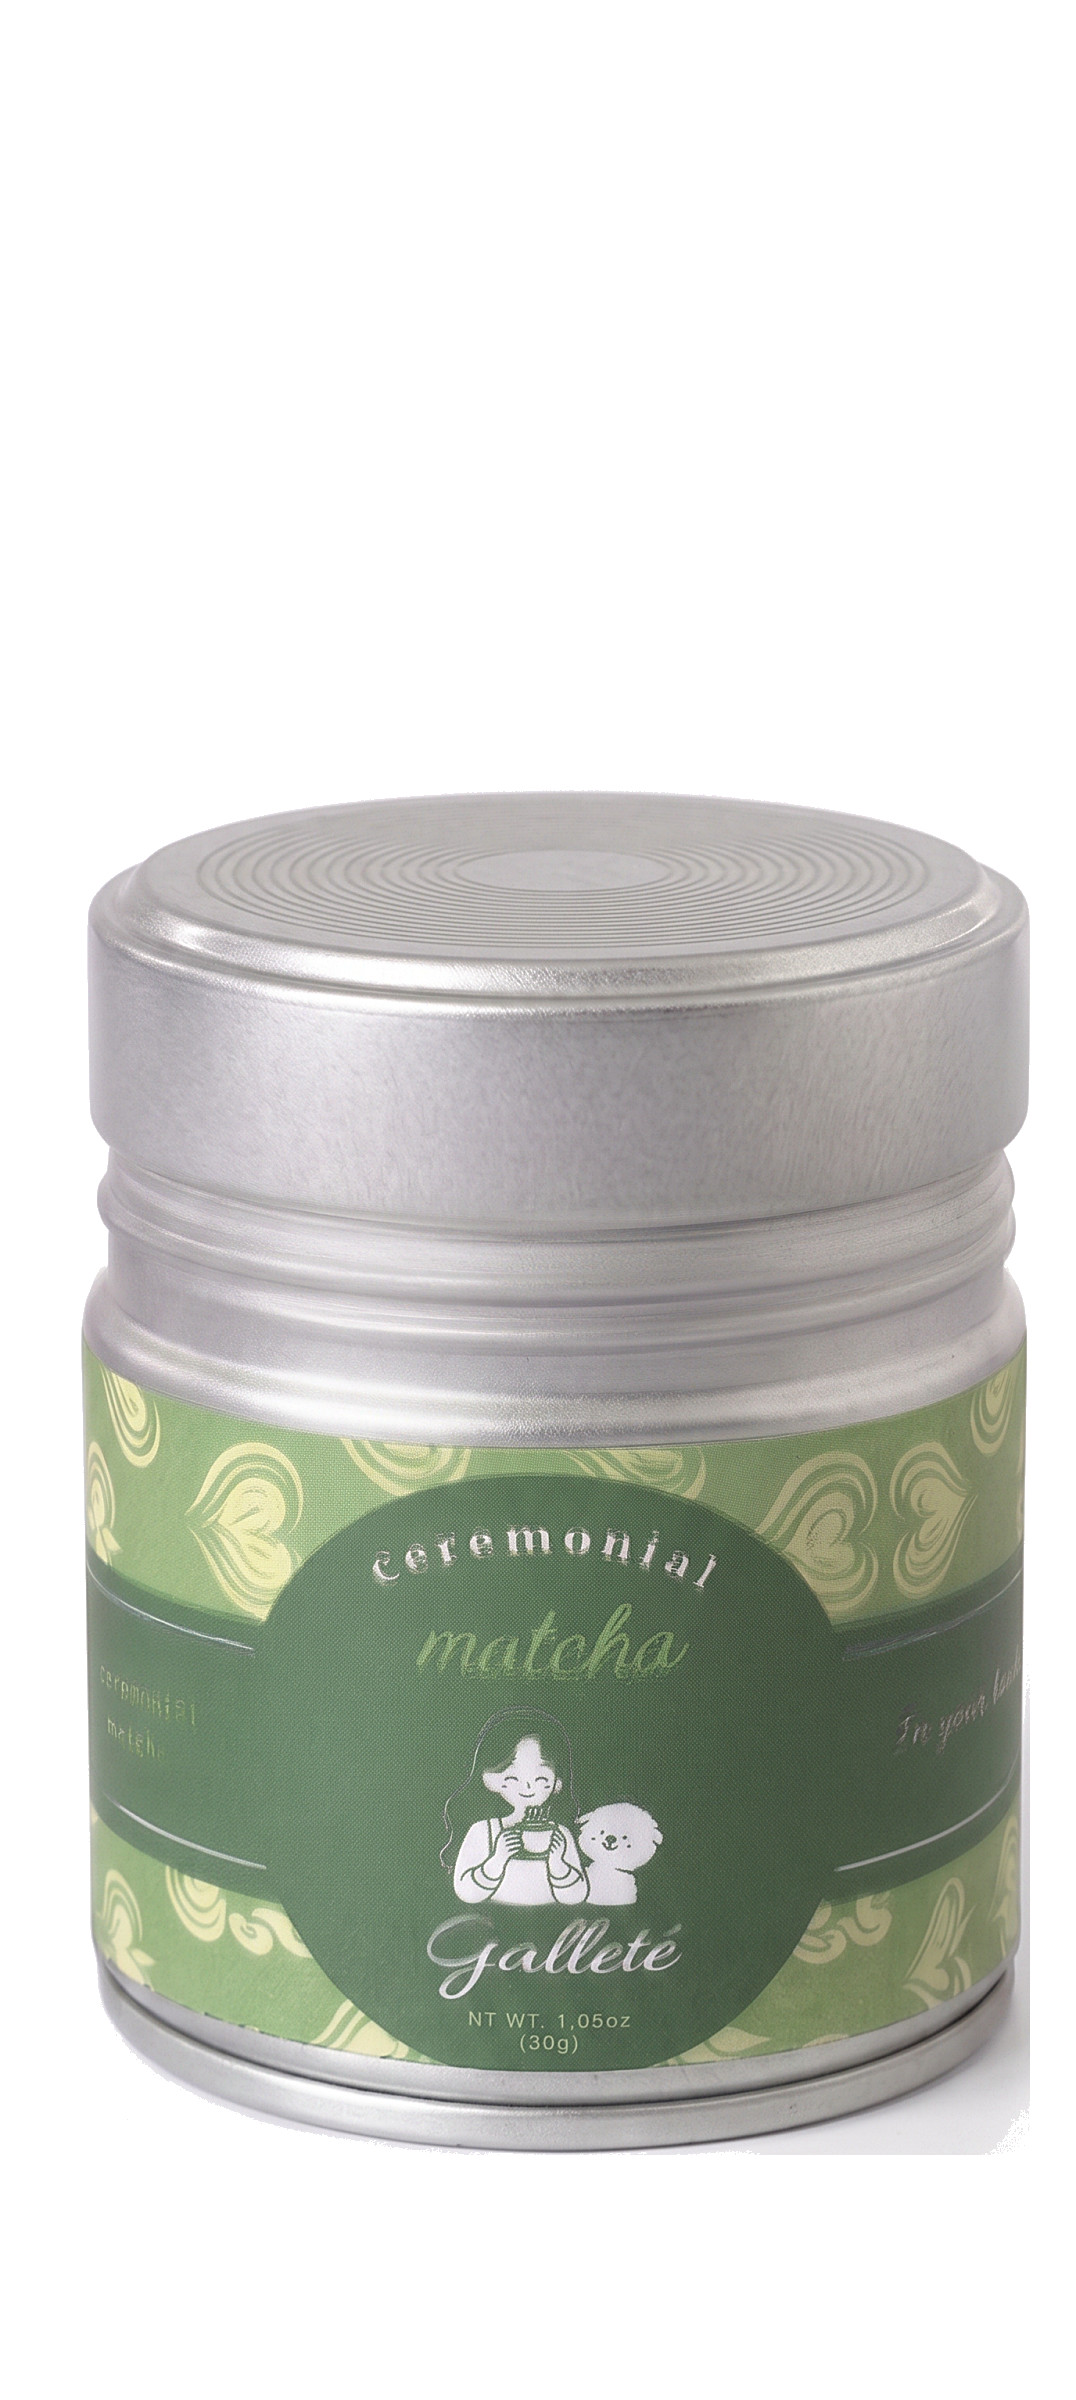
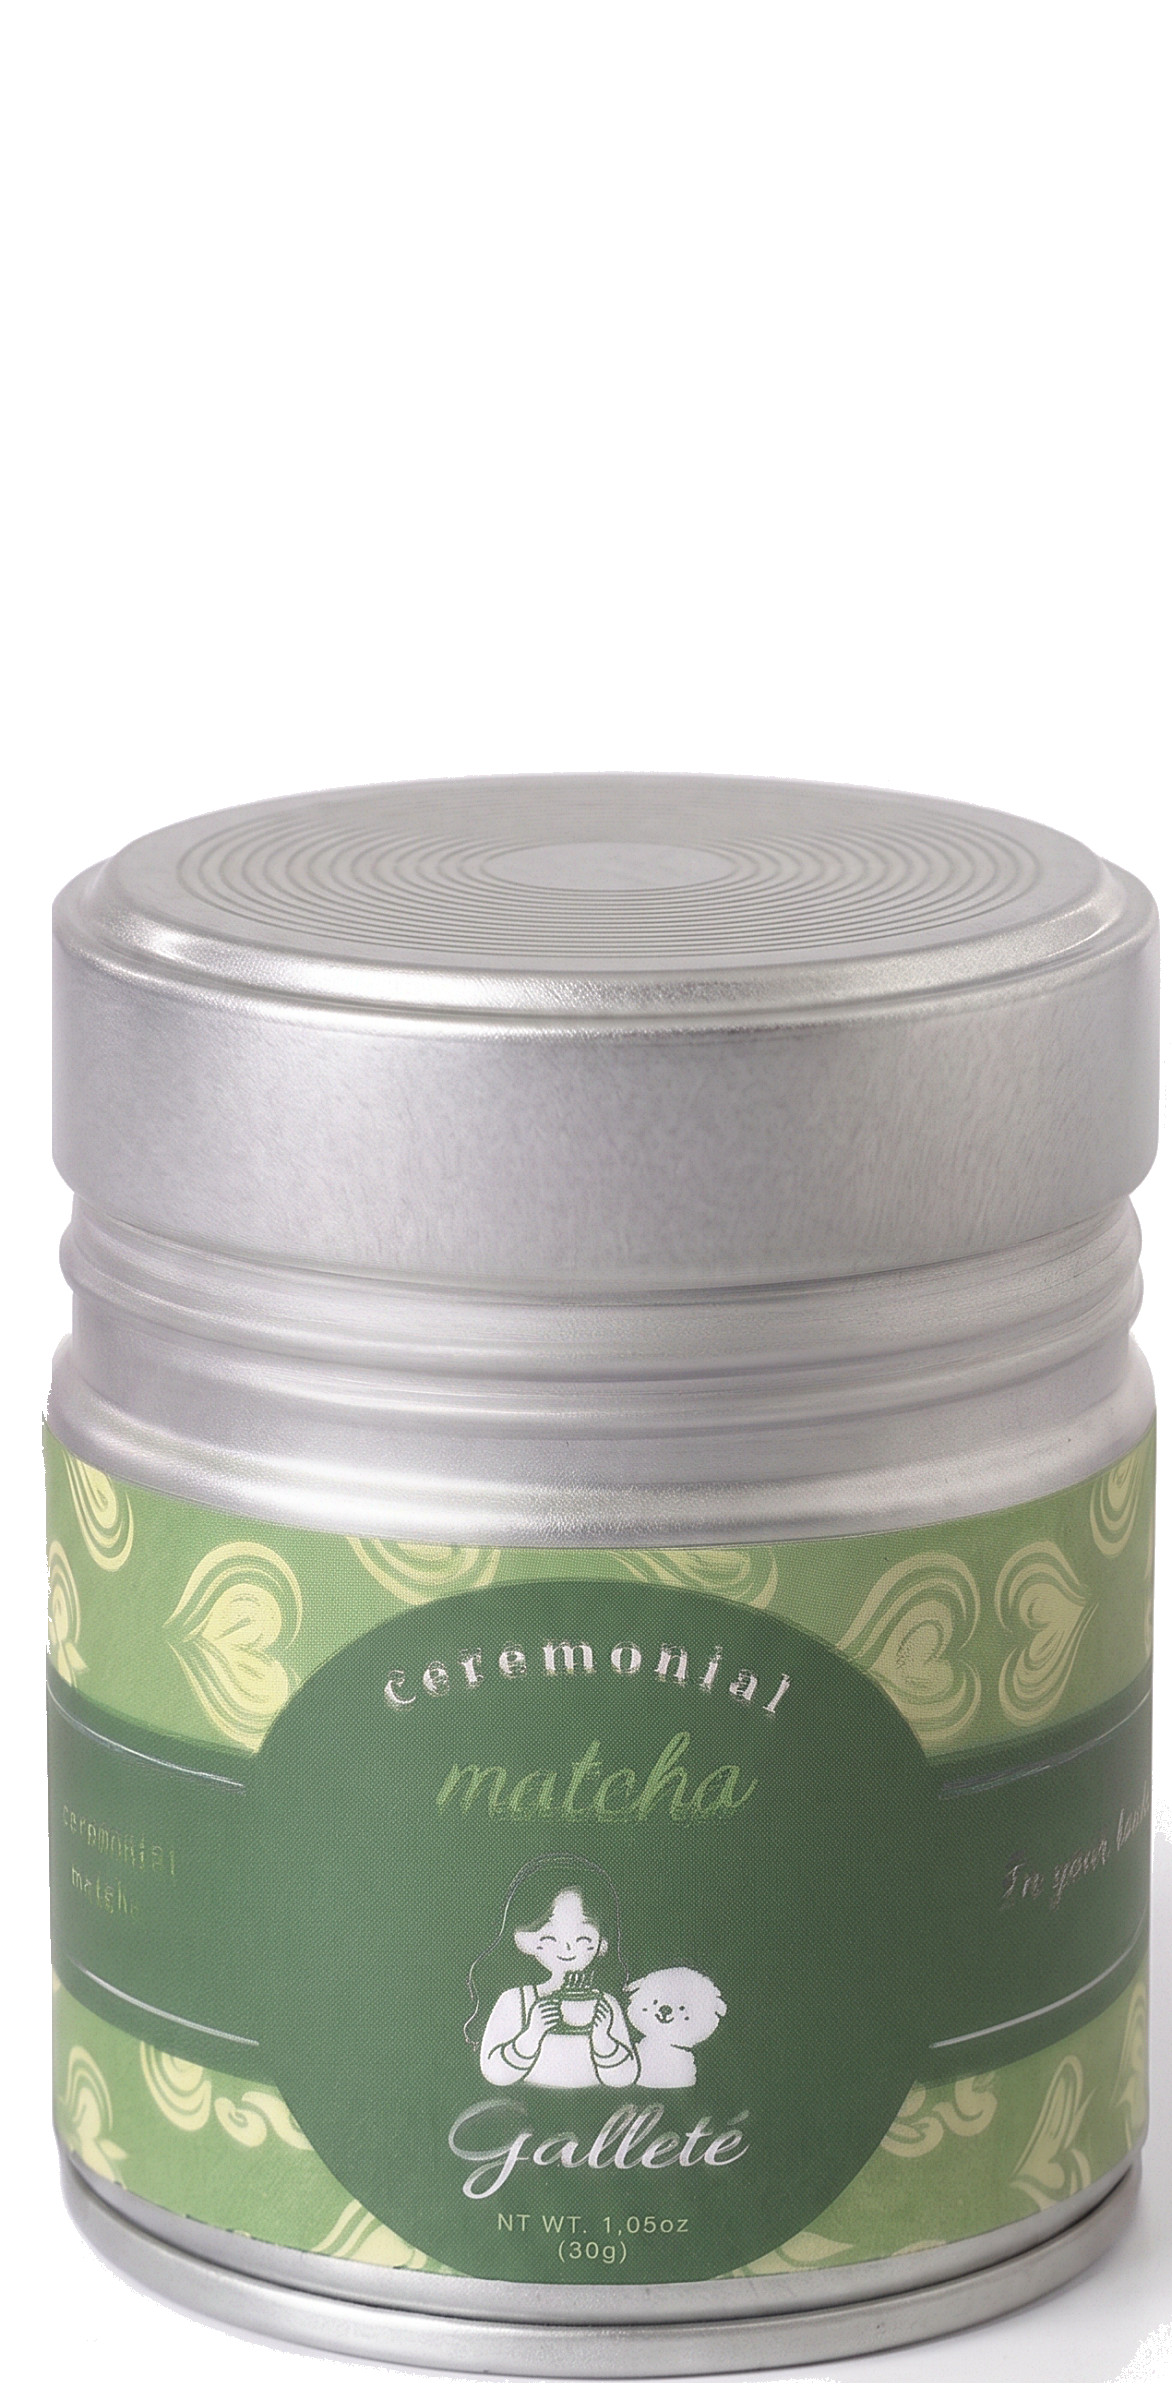
Hero latas: recorte (lata +30%, sin sombra lateral) + nitidez cerrada mejorada + efecto 20% mas lento

diff --git a/matcha.html b/matcha.html
@@ -110,8 +110,8 @@ h1,h2,h3,h4{font-family:var(--font-display);line-height:1.05;font-weight:700;col
 .hero-cta{display:flex;flex-wrap:wrap;gap:12px;align-items:center}
 .hero-note{margin-top:16px;font-family:var(--font-script);font-size:1.5rem;color:var(--wine-soft)}
 .hero-visual{position:relative;display:flex;justify-content:center}
-.hero-photo{position:relative;width:min(370px,84%);aspect-ratio:5/8;border-radius:32px;overflow:hidden;box-shadow:var(--shadow-lg);z-index:2;background:#fff;cursor:pointer}
-.hero-photo .tin{position:absolute;inset:0;width:100%;height:100%;object-fit:contain;transition:opacity .55s var(--ease-out),transform .6s var(--ease-out)}
+.hero-photo{position:relative;width:min(360px,86%);aspect-ratio:1172/2400;border-radius:32px;overflow:hidden;box-shadow:var(--shadow-lg);z-index:2;background:#fff;cursor:pointer}
+.hero-photo .tin{position:absolute;inset:0;width:100%;height:100%;object-fit:contain;transition:opacity .66s var(--ease-out),transform .72s var(--ease-out)}
 .hero-photo .tin-open{opacity:0;transform:scale(1.03)}
 .hero-photo.is-open .tin-closed{opacity:0}
 .hero-photo.is-open .tin-open{opacity:1;transform:none}
@@ -126,7 +126,7 @@ h1,h2,h3,h4{font-family:var(--font-display);line-height:1.05;font-weight:700;col
 .hero-photo.no-open .tin-hint{display:none}
 .hero-glow{position:absolute;inset:-8% -6% -6% -6%;background:radial-gradient(circle at 60% 40%,rgba(183,180,36.5),transparent 62%);filter:blur(20px);z-index:1}
 .hero-badge{position:absolute;z-index:3;top:6%;right:8%;background:var(--pink);color:var(--wine);font-family:var(--font-display);font-weight:800;text-align:center;line-height:1.05;width:104px;height:104px;border-radius:50%;display:flex;align-items:center;justify-content:center;transform:rotate(-11deg);box-shadow:var(--shadow-sm);font-size:.95rem}
-@media(max-width:820px){.hero-grid{grid-template-columns:1fr;gap:24px;text-align:center}.hero-sub{margin-inline:auto}.hero-cta{justify-content:center}.hero-photo{width:min(360px,80%)}}
+@media(max-width:820px){.hero-grid{grid-template-columns:1fr;gap:24px;text-align:center}.hero-sub{margin-inline:auto}.hero-cta{justify-content:center}.hero-photo{width:min(320px,82%)}}
 
 /* trust strip */
 .trust{background:var(--wine);color:var(--cream)}
